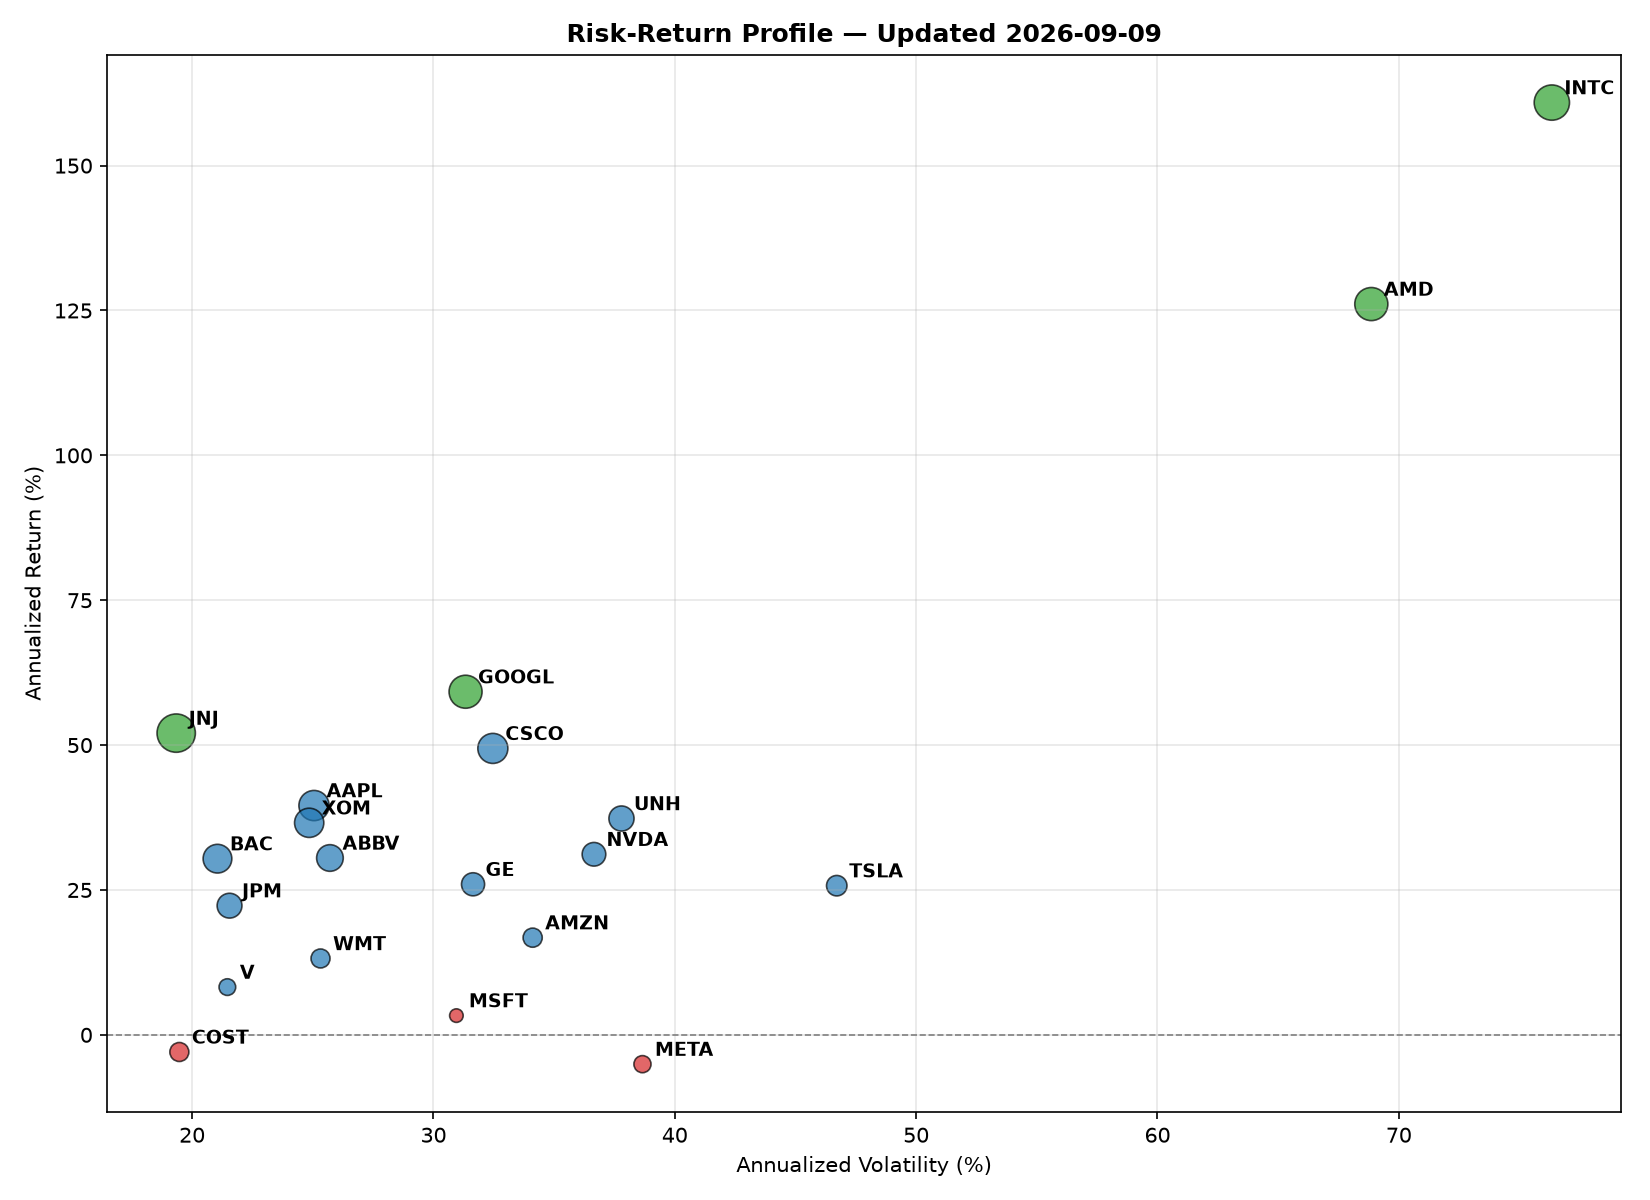
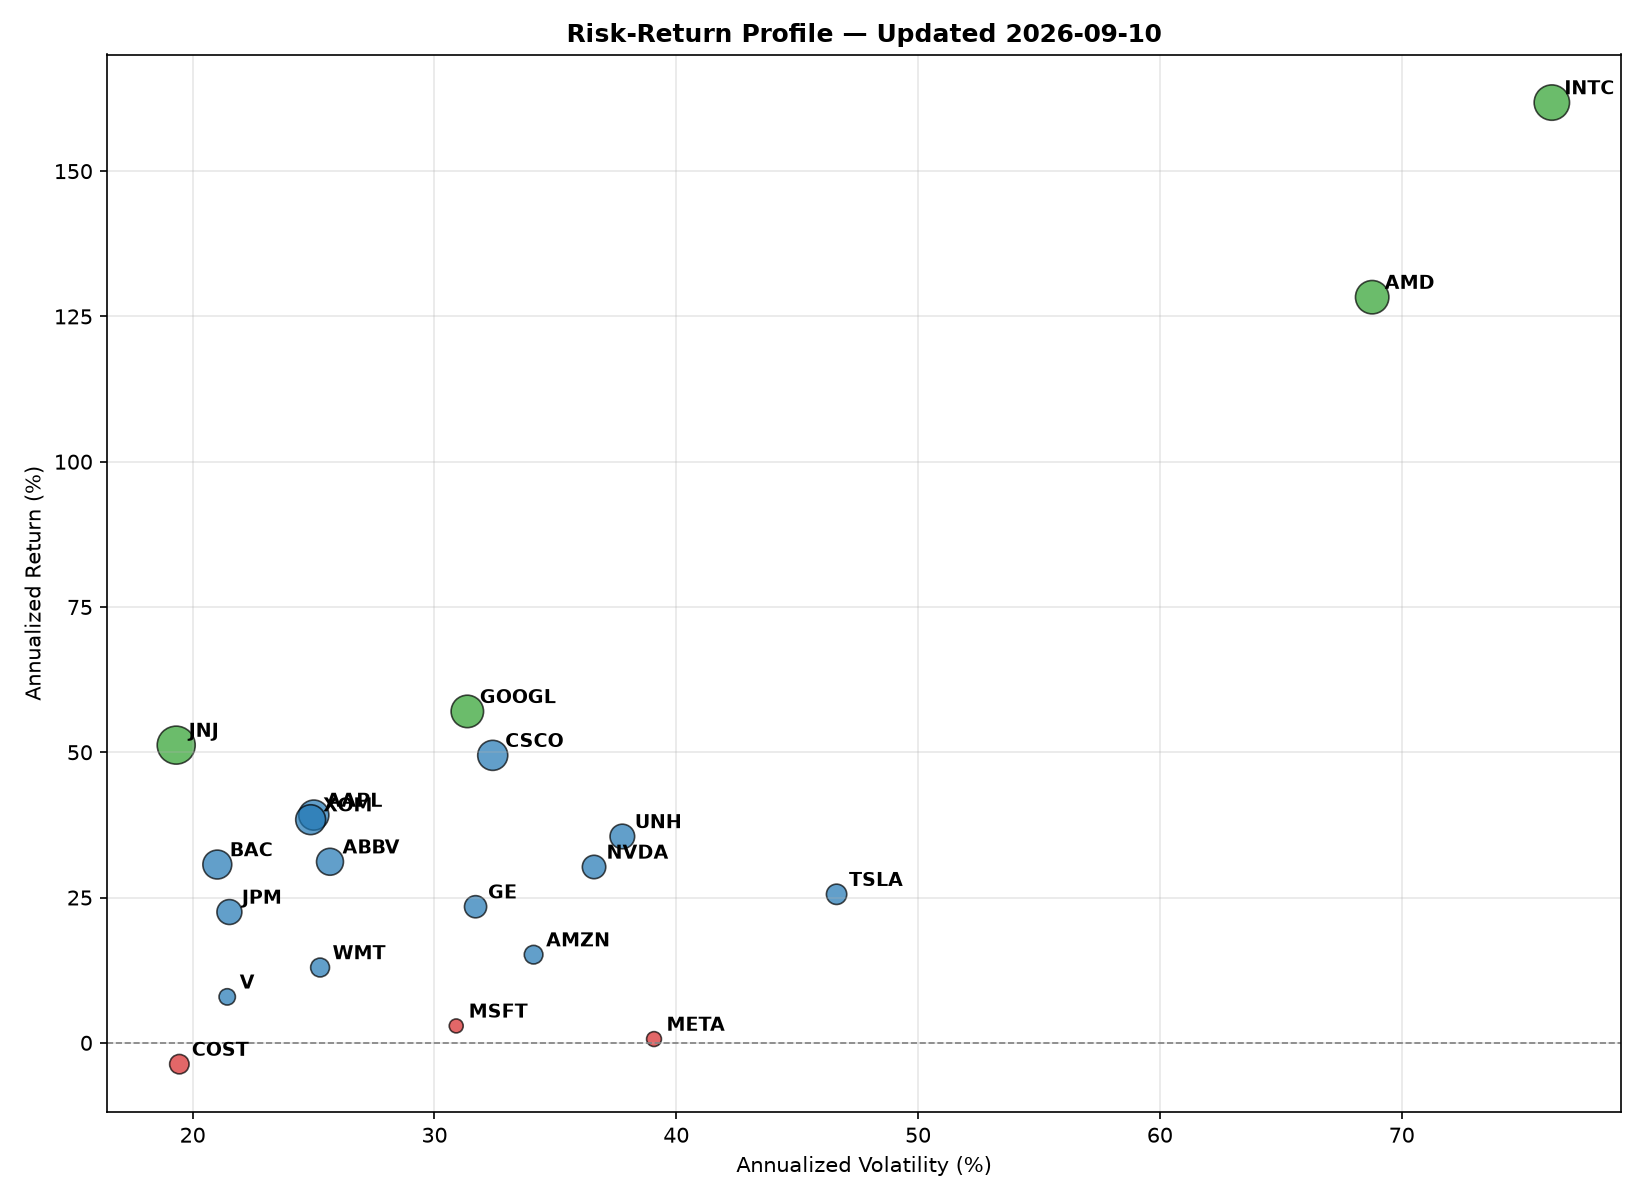
Automated daily update: prices, metrics, and charts

diff --git a/SNAPSHOT.md b/SNAPSHOT.md
@@ -1,9 +1,9 @@
-# Daily Risk Snapshot — 2026-09-08
+# Daily Risk Snapshot — 2026-09-09
 
-**Best mover:** INTC (+9.05%)
-**Worst mover:** ABBV (-2.99%)
-**Top risk-adjusted performer (trailing window):** JNJ (Sharpe 2.49)
+**Best mover:** META (+6.55%)
+**Worst mover:** GE (-2.83%)
+**Top risk-adjusted performer (trailing window):** JNJ (Sharpe 2.44)
 
-**⚠ Newly anomalous today:** INTC — return moved more than 2 std. deviations from its own 20-day trailing mean.
+**⚠ Newly anomalous today:** META — return moved more than 2 std. deviations from its own 20-day trailing mean.
 
 _Auto-generated by `scripts/daily_snapshot.py` via GitHub Actions._
